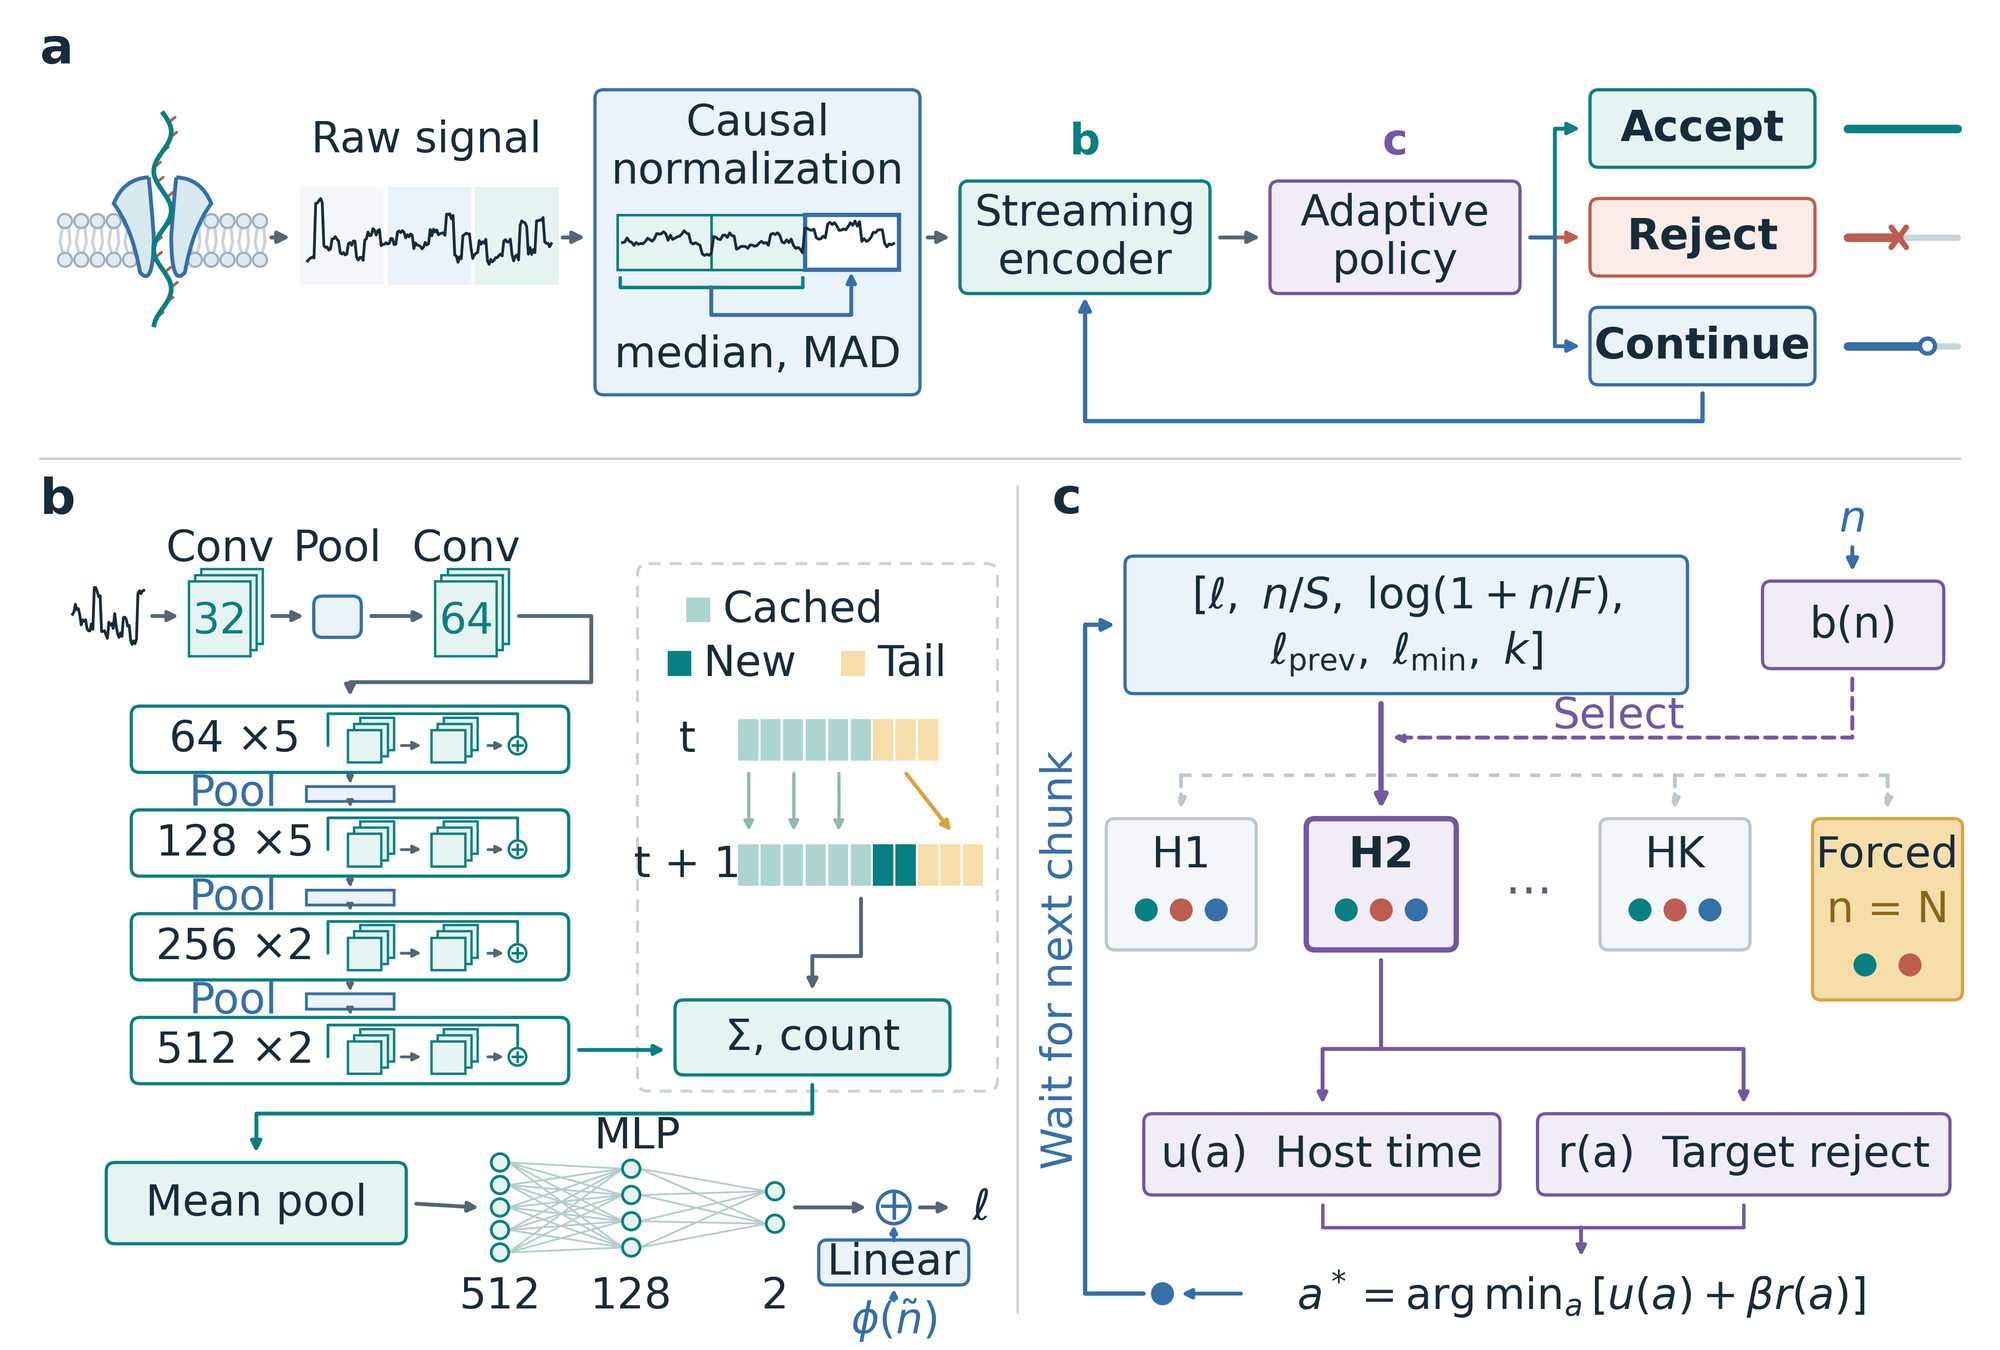
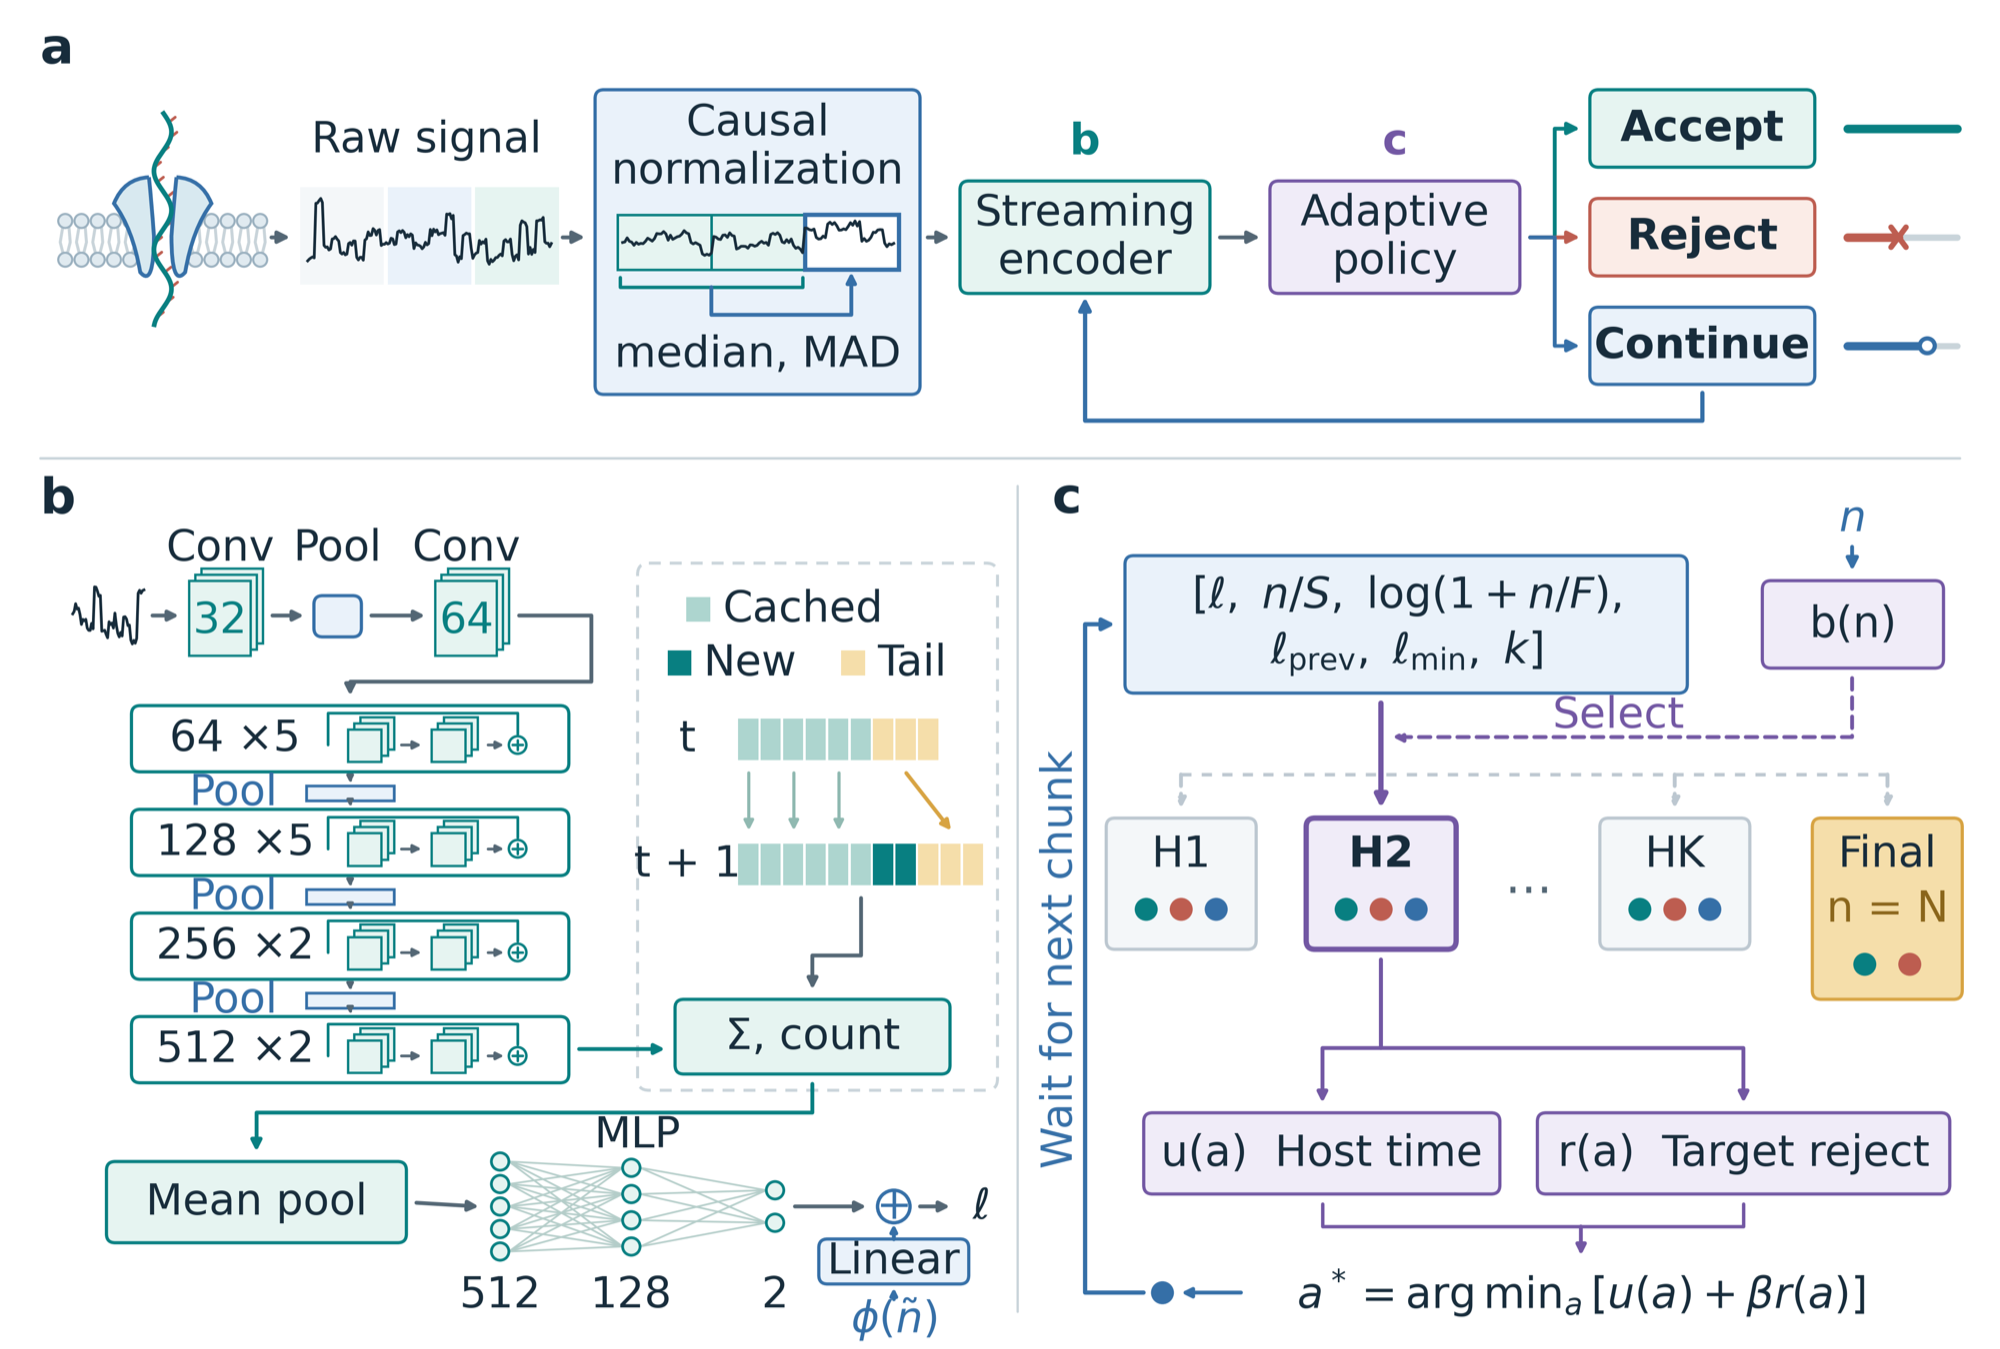
Update README results to the current paper; refresh overview figure
Report all-TEST-read comparisons against the best baseline per metric,
add frozen-baseline FACP and closed-loop best-baseline results, use plain
metric names, and remap figure/table references to the current paper.

Changed region(s): [[0.899, 0.6227, 0.992, 0.6538], [0.031, 0.4359, 0.062, 0.467]]

diff --git a/README.md b/README.md
@@ -10,13 +10,13 @@ decided early, while uncertain reads keep observing up to a maximum budget.
   <img src="docs/poreloom_overview.png" width="900" alt="PoreLoom overview">
 </p>
 
-**Overview.** (a) Each chunk passes through causal normalization and a streaming encoder. Each block (white) is scaled
-with the median and MAD of the preceding blocks (teal). Accept sequences the read to its natural end, Reject requests
-ejection, and Continue waits for the next chunk. (b) A ReadCurrent-derived backbone reuses cached features as the prefix
-grows and recomputes only those near its right boundary. Pooling and a length correction give the target-minus-host
-logit. (c) The current, previous, and minimum logits, the observed length, and the look count are passed to a
-length-specific head, which predicts host occupancy and target-rejection risk for each action. The forced head at the
-budget endpoint excludes Continue.
+**Overview.** (a) Chunks pass through causal normalization and a streaming encoder. Each block (white) is scaled with
+statistics of earlier blocks (teal). Accept sequences the read to its natural end, Reject requests ejection, and
+Continue waits for the next chunk. (b) A ReadCurrent-derived backbone reuses stable features as the prefix grows and
+recomputes features near its right boundary. Pooling and a length correction produce the target-minus-host logit.
+(c) The current, previous, and minimum logits, observation length, and number of decision steps inform a
+length-specific head. The chosen action minimizes the predicted normalized host time plus the weighted target-rejection
+risk. The final head at the budget endpoint excludes Continue.
 
 ## Method
 
@@ -28,47 +28,65 @@ budget endpoint excludes Continue.
   pretraining, and is then trained on streaming prefixes of many lengths. Finalized feature frames are kept as a running
   sum and count, and only the frames affected by the right boundary are recomputed.
 - **Factorized action-cost policy (FACP).** For each action, a head selected by the observed length predicts the
-  normalized host pore occupancy and the target-rejection risk. The policy chooses the action with the lowest
-  `occupancy + beta * risk`. Heads are fitted backward from the forced decision, and `beta` is selected on DEV-B.
+  normalized host pore time and the target-rejection risk. The policy chooses the action with the lowest
+  `host time + beta * risk`. Heads are fitted backward from the final decision, and `beta` is selected on DEV-B.
 
 By default the usable budget is 6000 samples, so the forced decision falls at 7500 raw samples (1.875 s at 4 kHz).
 
 ## Results
 
-All numbers come from offline replay of recorded TEST reads at 0.4-s callbacks, averaged over three units per data
-family. The comparison below uses, for every method, the same TEST reads that are long enough (at least 7500 raw
-samples) for the 6000-sample baselines to decide.
+All offline numbers come from replay of recorded TEST reads with new signal every 0.4 s, averaged over three units
+per dataset. Every method is evaluated on all TEST reads, including reads too short to fill a fixed window, which are
+retained without a decision. Host and target rejection count completed Reject commands; host pore time is the mean
+time a host read occupies the pore, including 0.1 s for ejection.
 
-| Family | PoreLoom host rejection | PoreLoom target FRR | PoreLoom host occupancy | 6000-sample baselines: host rejection / target FRR / host occupancy |
-|---|---|---|---|---|
-| Simulated | 96.36% | 4.38% | 1.975 s | 91.79–94.04% / 7.47–10.18% / 3.192–3.621 s |
-| R9 | 94.05% | 8.35% | 1.999 s | 82.84–87.28% / 7.82–10.53% / 2.982–3.453 s |
-| R10 mixed | 97.81% | 3.71% | 1.501 s | 92.37–95.49% / 2.34–7.88% / 2.836–3.485 s |
-| R10 sputum | 93.93% | 8.58% | 1.398 s | 87.81–91.66% / 10.89–13.03% / 2.167–2.327 s |
+| Dataset | Method | Accuracy | Hosts rejected | Targets rejected | Pore time per host read |
+|---|---|---|---|---|---|
+| Simulated | PoreLoom | 95.71% | 95.73% | 4.32% | 1.960 s |
+| | Best baseline per metric | 92.60% (ND-6000) | 92.61% (RC-6000) | 7.34% (ND-6000) | 3.163 s (ND-6000) |
+| R9 | PoreLoom | 91.84% | 90.58% | 6.91% | 1.843 s |
+| | Best baseline per metric | 86.19% (ND-3000) | 85.80% (ND-3000) | 5.68% (ND-6000) | 2.477 s (ND-3000) |
+| R10 mixed | PoreLoom | 95.65% | 94.90% | 3.60% | 1.439 s |
+| | Best baseline per metric | 91.71% (ND-6000) | 87.20% (ND-3000) | 2.23% (ND-6000) | 2.664 s (ND-6000) |
+| R10 sputum | PoreLoom | 92.68% | 93.90% | 8.53% | 1.397 s |
+| | Best baseline per metric | 90.31% (RC-6000) | 91.44% (RC-6000) | 10.81% (RC-6000) | 1.862 s (RC-3000) |
 
-Baselines are ReadCurrent, NanoDeep, and SquiggleNet retrained with 6000-sample windows; ranges span the three tools.
+Baselines are ReadCurrent (RC), NanoDeep (ND), and SquiggleNet trained with 3000- or 6000-sample windows. The second
+row of each dataset lists, for each metric, the best of the six baseline models. PoreLoom's host rejection is 2.46–7.70
+percentage points above the highest baseline rate, and its host pore time is 25–46% below the lowest baseline value.
+The complete table is Table 2 of the paper.
 
 - **Early decisions.** Among completed decisions, 50.15%, 36.68%, 73.93%, and 56.22% occur within 3000 usable samples
-  on simulated, R9, R10 mixed, and sputum data.
+  on simulated, R9, R10 mixed, and sputum data, while 5.8–14.2% reach the 6000-sample budget.
 - **Streaming encoding.** Compared with a sliding-window encoder from the same initialization, the streaming encoder
-  improves mean accuracy by 1.87–2.63 percentage points across the four families.
+  improves mean accuracy by 1.87–2.63 percentage points, lowers target rejection by 0.76–3.19 percentage points, and
+  reduces host pore time in every dataset.
 - **Feature reuse.** On an RTX 2080 Ti, updating 512 reads at different prefix lengths after each 0.4 s of signal takes
-  141.3 ms with the cache versus 571.2 ms with full-prefix evaluation (4.0-fold). Cached and full-prefix logits differ
-  by at most 4.35e-6.
-- **Stopping rules.** On the same frozen encoder, FACP has lower mean host occupancy than length-calibrated thresholds
-  in all four families at similar host rejection, but higher target FRR in three of them.
+  141.3 ms with feature reuse versus 571.2 ms with full recomputation (4.0-fold). At a shared prefix length of 19200
+  samples, the times are 122.2 and 572.9 ms (4.7-fold). Reused and recomputed logits differ by at most 4.35e-6.
+- **Stopping rules.** On the same frozen encoder, fixed-length stopping needs 30–48% more host pore time than FACP.
+  Constant and length-calibrated thresholds reach host rejection within 1.1 percentage points of FACP. FACP has the
+  shortest host pore time on simulated, R9, and sputum data, and a constant threshold is 0.03 s faster on R10 mixed data.
+- **FACP on existing classifiers.** Adding FACP to frozen 3000-sample baselines lowers target rejection by 1.01–5.02
+  percentage points and raises accuracy by 0.39–5.65 percentage points in all 12 baseline/dataset means. The augmented
+  baselines still reject fewer hosts, reject more targets, and use more host pore time than PoreLoom in every dataset.
 - **Larger budgets.** Retraining with an 18000-sample budget on R10 mixed group 1 raises mean accuracy from 95.58% to
-  96.25% while host occupancy falls from 1.610 to 1.369 s. A 12000-sample budget on sputum group 1 raises accuracy from
-  93.03% to 94.57%, with host occupancy rising from 1.333 to 1.399 s.
+  96.25% while host pore time falls from 1.610 to 1.369 s. A 12000-sample budget on sputum group 1 raises accuracy from
+  93.03% to 94.57%, with host pore time rising from 1.333 to 1.399 s.
 - **Closed-loop simulation.** In Icarust runs with 512 channels for 1200 s, PoreLoom's retained target-base yield is
-  7.84, 4.88, and 2.62 times that of nonselective sequencing at 1%, 10%, and 30% targets, compared with at most 5.82,
-  4.07, and 2.40 for the 6000-sample baselines.
+  7.84, 4.88, and 2.62 times that of nonselective sequencing at 1%, 10%, and 30% targets. The best baseline,
+  3000-sample NanoDeep, reaches 6.15, 4.19, and 2.43, so PoreLoom's enrichment is 27.5%, 16.4%, and 7.9% higher.
 
 ### Limitations
 
-- Some baselines preserve targets better: the 6000-sample NanoDeep model has lower target FRR on R9 (7.82% vs 8.35%)
-  and R10 mixed data (2.34% vs 3.71%), with longer host occupancy.
-- Target FRR rises for taxa removed from training, and some genera have high FRR even when included.
+- Some baselines preserve targets better: the 6000-sample NanoDeep model has lower target rejection on R9 (5.68% vs
+  6.91%) and R10 mixed data (2.23% vs 3.60%), but misses more hosts and uses more host pore time.
+- FACP has higher target rejection than length-calibrated thresholds on R9, R10 mixed, and sputum data, and the lowest
+  sputum accuracy among the four stopping rules (92.68% vs 93.26% for the best).
+- In closed-loop simulation at 1% targets, 6000-sample SquiggleNet has higher accuracy (98.50% vs 96.37%) by ejecting
+  more hosts, although it ejects 33.51% of targets and has lower enrichment.
+- Target rejection rises when an entire genus is removed from training, and some genera have high rejection even when
+  included.
 - Models do not transfer between datasets without retraining. Models trained on R10 mixed data and applied to sputum
   reject 79.97% of targets on average, so PoreLoom currently requires matched training data.
 - The R10 mixed host and target reads come from separate sequencing runs, and the sputum data are a spiked
@@ -177,18 +195,18 @@ working directory and cluster settings.
 
 | Paper result | Scripts |
 |---|---|
-| Main comparison with 3000- and 6000-sample baselines (Fig. 2a–c) | `experiments/20261014_final/hpc/`, `summarize.py`; `experiments/20261016_window6000/win6000.py` |
-| Icarust retained target-base yield (Fig. 2d) | `experiments/20261014_final/icarust_run.py`, `icarust_live.py` |
-| Fixed-prefix accuracy (Fig. 2e) | `experiments/20261015_ablation/fixed_window.py` |
-| Decision positions (Fig. 2f) | `experiments/20261014_final/signal_budget.py`; `paper/scripts/signal_position_data.py` |
-| Streaming versus window encoder, stopping-rule controls (Figs. 3a,b and 4a–c) | `experiments/20261015_ablation/ablation.py` |
-| Cached versus full-prefix update time (Figs. 3c,d) | `experiments/20261016_stream_timing/timing.py` |
-| FACP on frozen 3000-sample baselines (Figs. 4d–f) | `experiments/20261015_window_tools/native_cp.py` |
-| Larger decision budgets (Fig. 5) | `experiments/20261016_budget_up/budget_up.py` |
-| Leave-taxon-out (Fig. 6) | `experiments/20261014_final/lso.py` |
-| Online/offline decision agreement (Discussion) | `experiments/20261014_final/icarust_check.py` |
-| Callback cadence (Supplementary) | `experiments/20261015_ablation/icarust_chunk.py` |
-| Cross-dataset transfer (Supplementary) | `experiments/20261015_cross_domain/` |
+| Main comparison with 3000- and 6000-sample baselines (Table 2) | `experiments/20261014_final/hpc/`, `summarize.py`; `experiments/20261016_window6000/win6000.py` |
+| Icarust closed-loop simulation (Table 3; Supplementary Section S10) | `experiments/20261014_final/icarust_run.py`, `icarust_live.py` |
+| Fixed-prefix accuracy (Fig. 2a) | `experiments/20261015_ablation/fixed_window.py` |
+| Decision positions (Fig. 2b) | `experiments/20261014_final/signal_budget.py`; `paper/scripts/signal_position_data.py` |
+| Streaming versus window encoder, stopping-rule controls (Fig. 3a,b; Table 4) | `experiments/20261015_ablation/ablation.py` |
+| Feature reuse versus full recomputation time (Fig. 3c; Supplementary Fig. S2) | `experiments/20261016_stream_timing/timing.py` |
+| FACP on frozen 3000-sample baselines (Table 5) | `experiments/20261015_window_tools/native_cp.py` |
+| Larger observation budgets (Fig. 4) | `experiments/20261016_budget_up/budget_up.py` |
+| Online/offline decision agreement (Supplementary Section S5) | `experiments/20261014_final/icarust_check.py` |
+| Observation-interval sensitivity (Supplementary Fig. S1) | `experiments/20261015_ablation/icarust_chunk.py` |
+| Cross-dataset transfer (Supplementary Section S6, Fig. S3) | `experiments/20261015_cross_domain/` |
+| Leave-taxon-out (Supplementary Section S11) | `experiments/20261014_final/lso.py` |
 
 `paper/` regenerates the figures, tables, and numbers of the manuscript. `paper/figure_data/` holds the unrounded CSV
 input of every plotted comparison, so the figures can be redrawn without the raw results:
